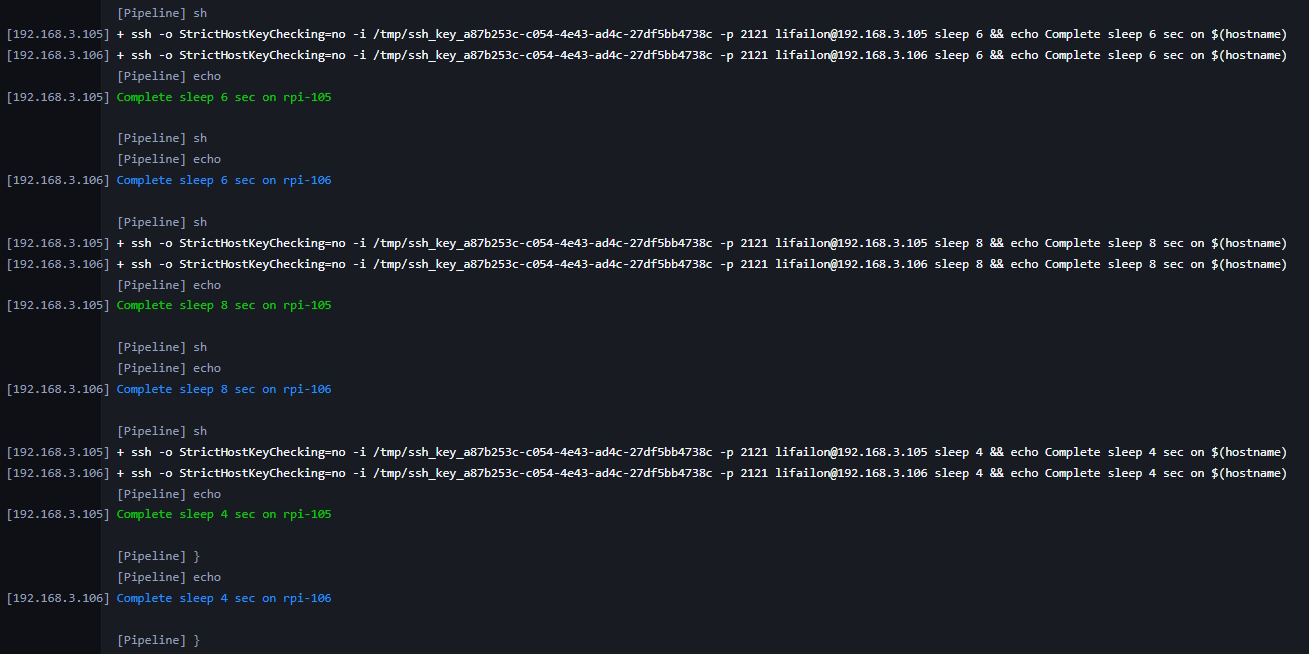
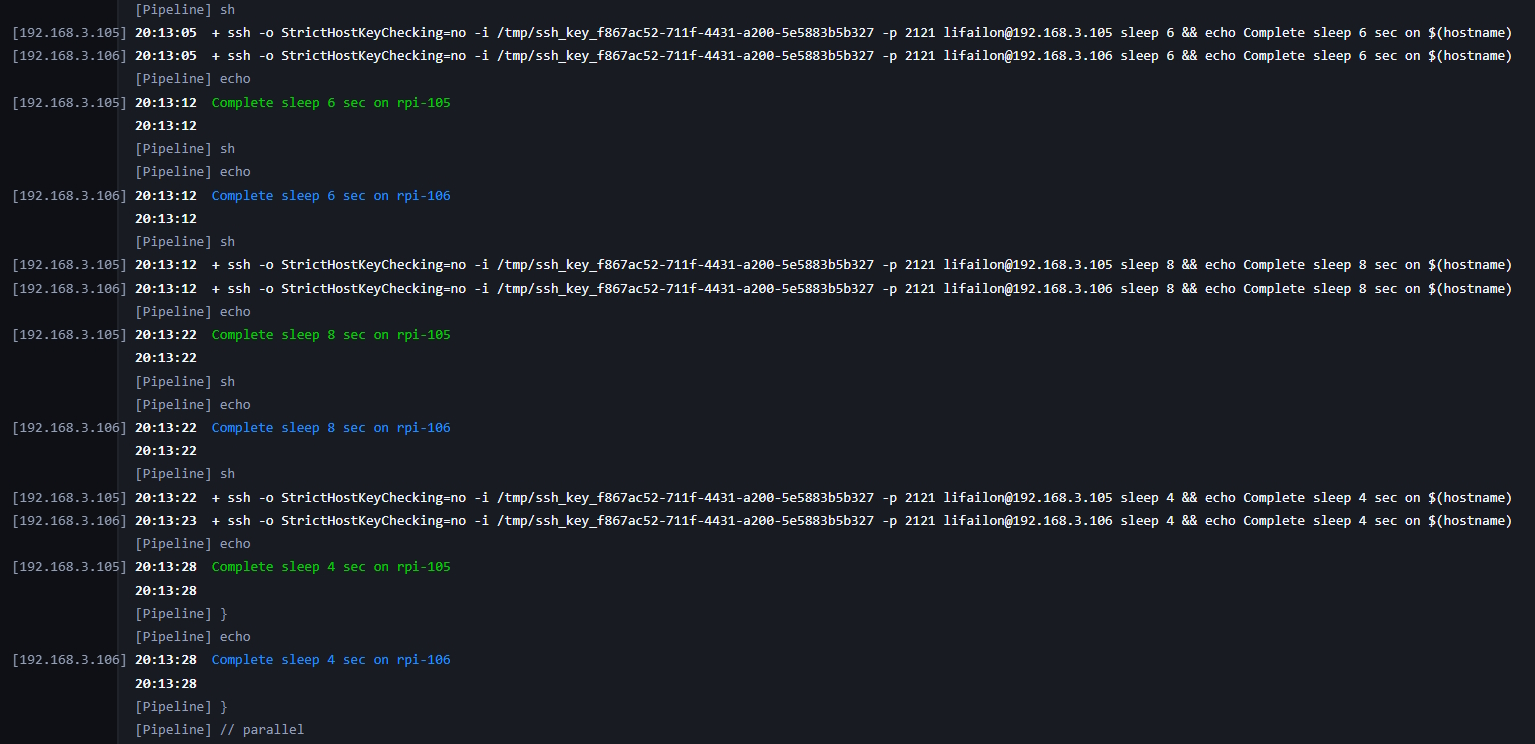
add timestamps and update examples

Changed region(s): [[0.0, 0.0, 1.0, 1.0]]

diff --git a/parallel-execution-pipeline/README.md b/parallel-execution-pipeline/README.md
@@ -1,0 +1,34 @@
+# Parallel Execution Pipeline
+
+This is a simple Jenkins Pipeline that I use in my home environment to automate execution commands on multiple remote hosts.
+
+Supports 2 operating modes:
+
+- Parallel execution of commands on one host.
+- Sequential execution of commands, but in parallel on multiple hosts.
+
+By default, the `OpenSSH` client is used on the agent in output coloring mode.
+
+## Execution examples
+
+Example of a command list:
+
+```bash
+sleep 6 && echo Complete sleep 6 sec on $(hostname)
+sleep 8 && echo Complete sleep 8 sec on $(hostname)
+sleep 4 && echo Complete sleep 4 sec on $(hostname)
+```
+
+- Result of execution on one host:
+
+> [!NOTE]
+> Please note the order in which the executed commands.
+
+![](/parallel-execution-pipeline/img/parallel-commands.jpg)
+
+- Result of execution on two hosts:
+
+> [!NOTE]
+> Please note the `timestamp`.
+
+![](/parallel-execution-pipeline/img/parallel-hosts.jpg)
